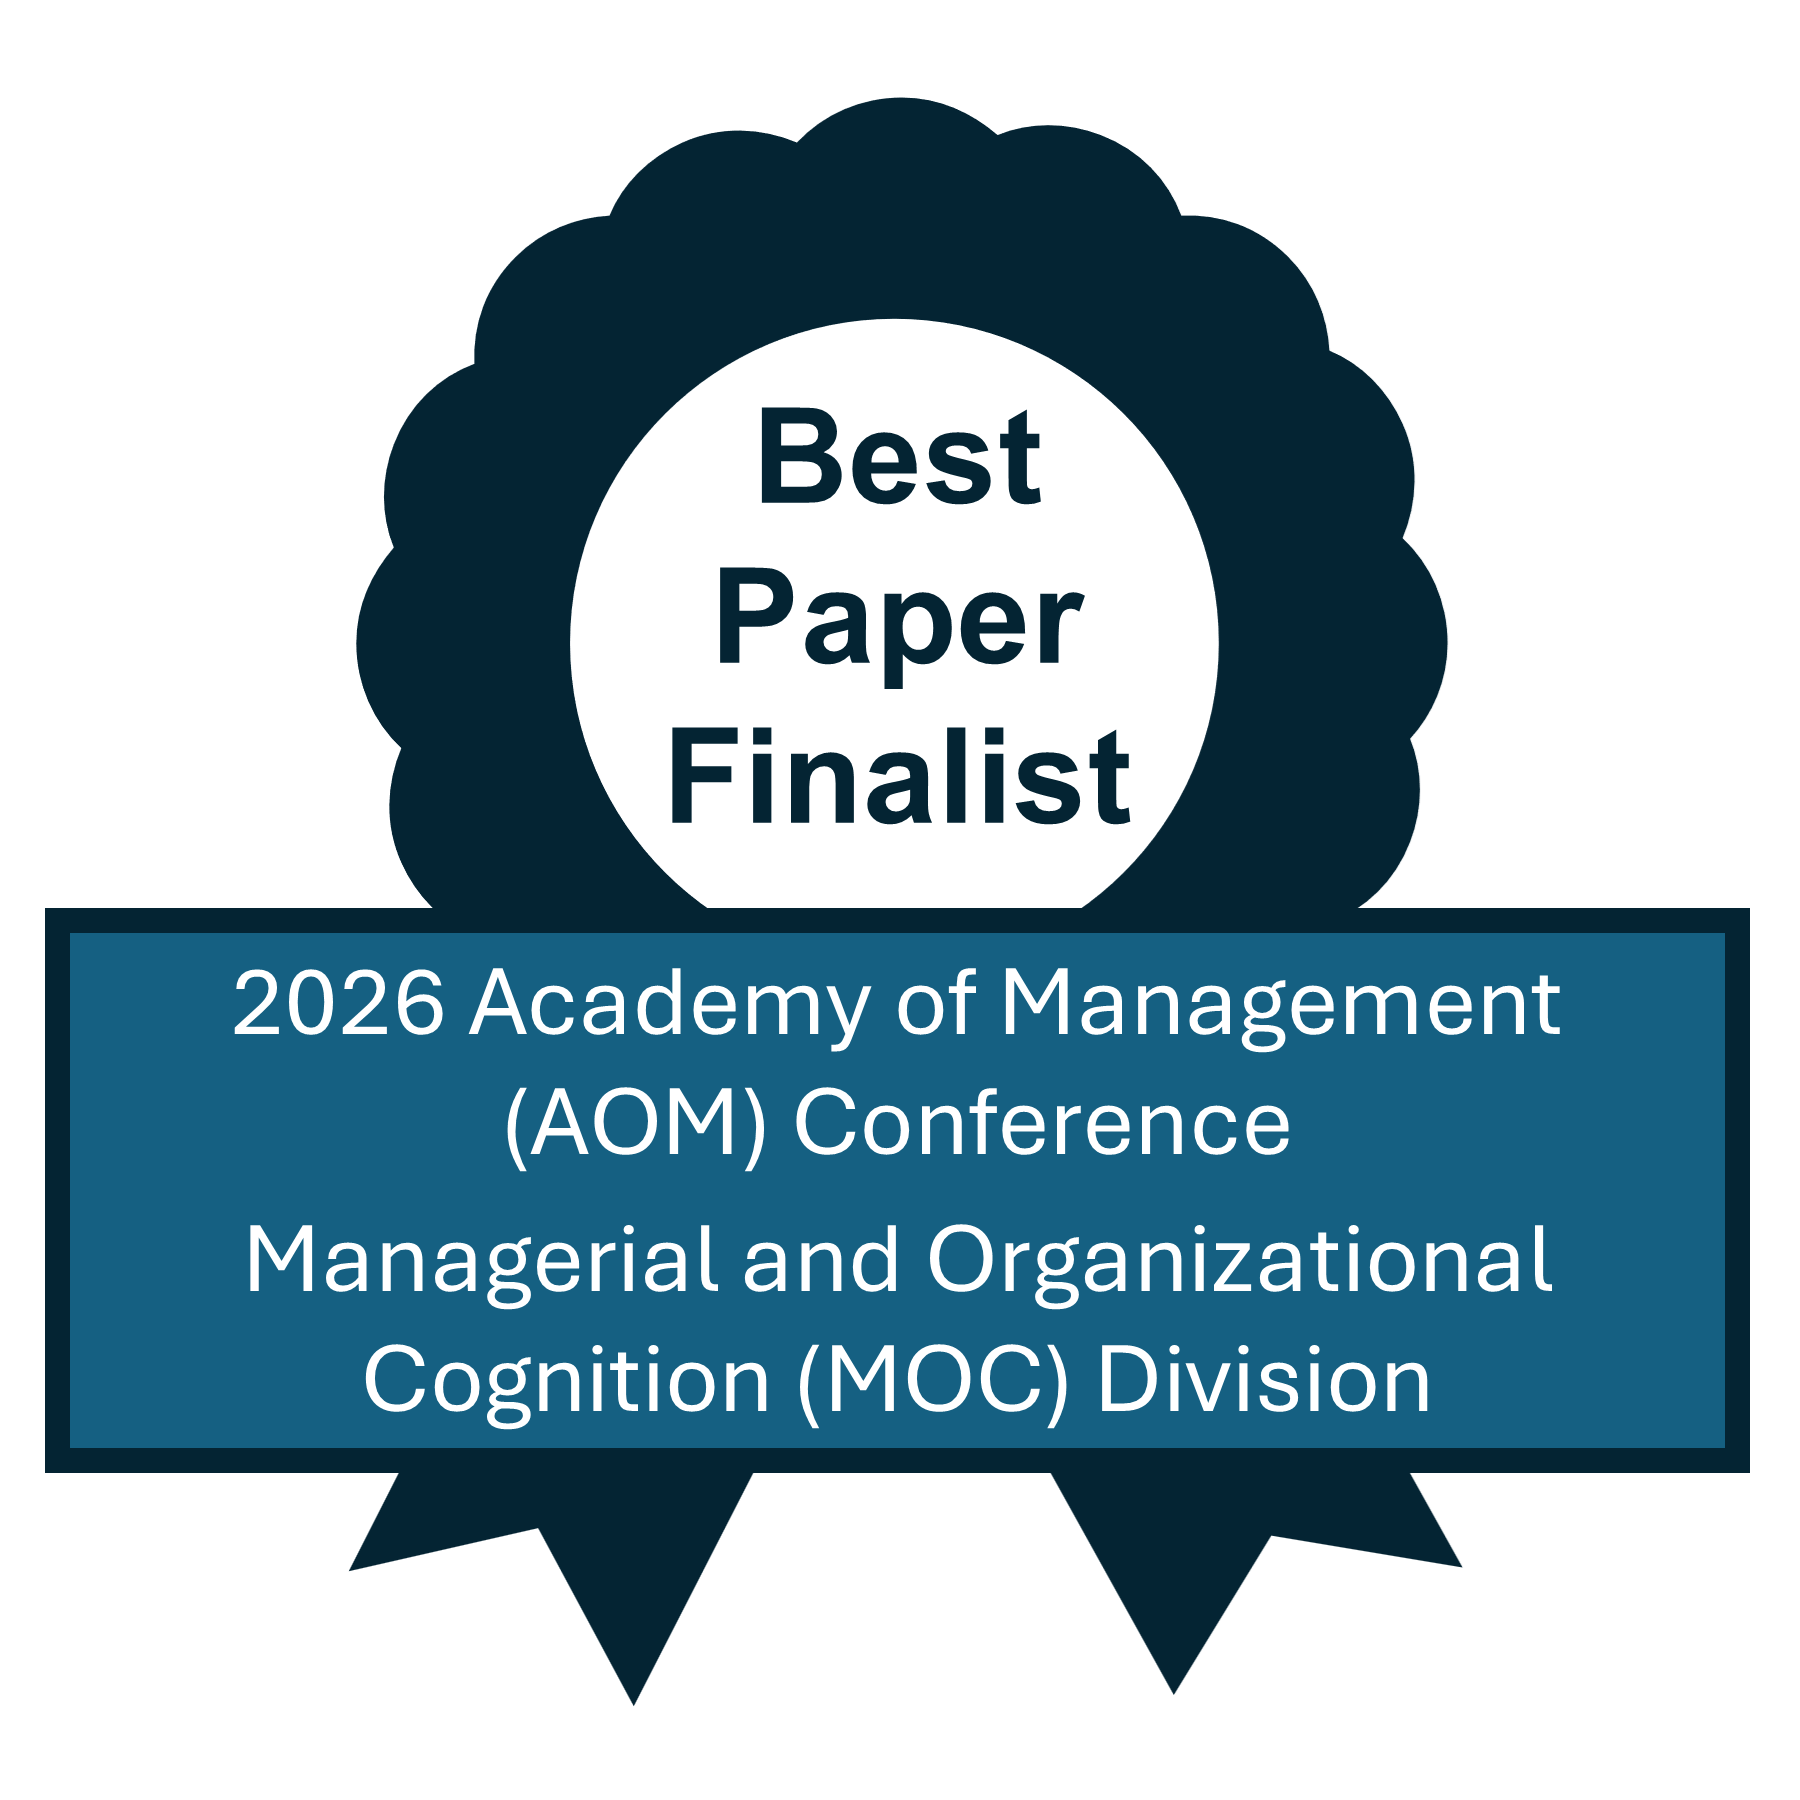
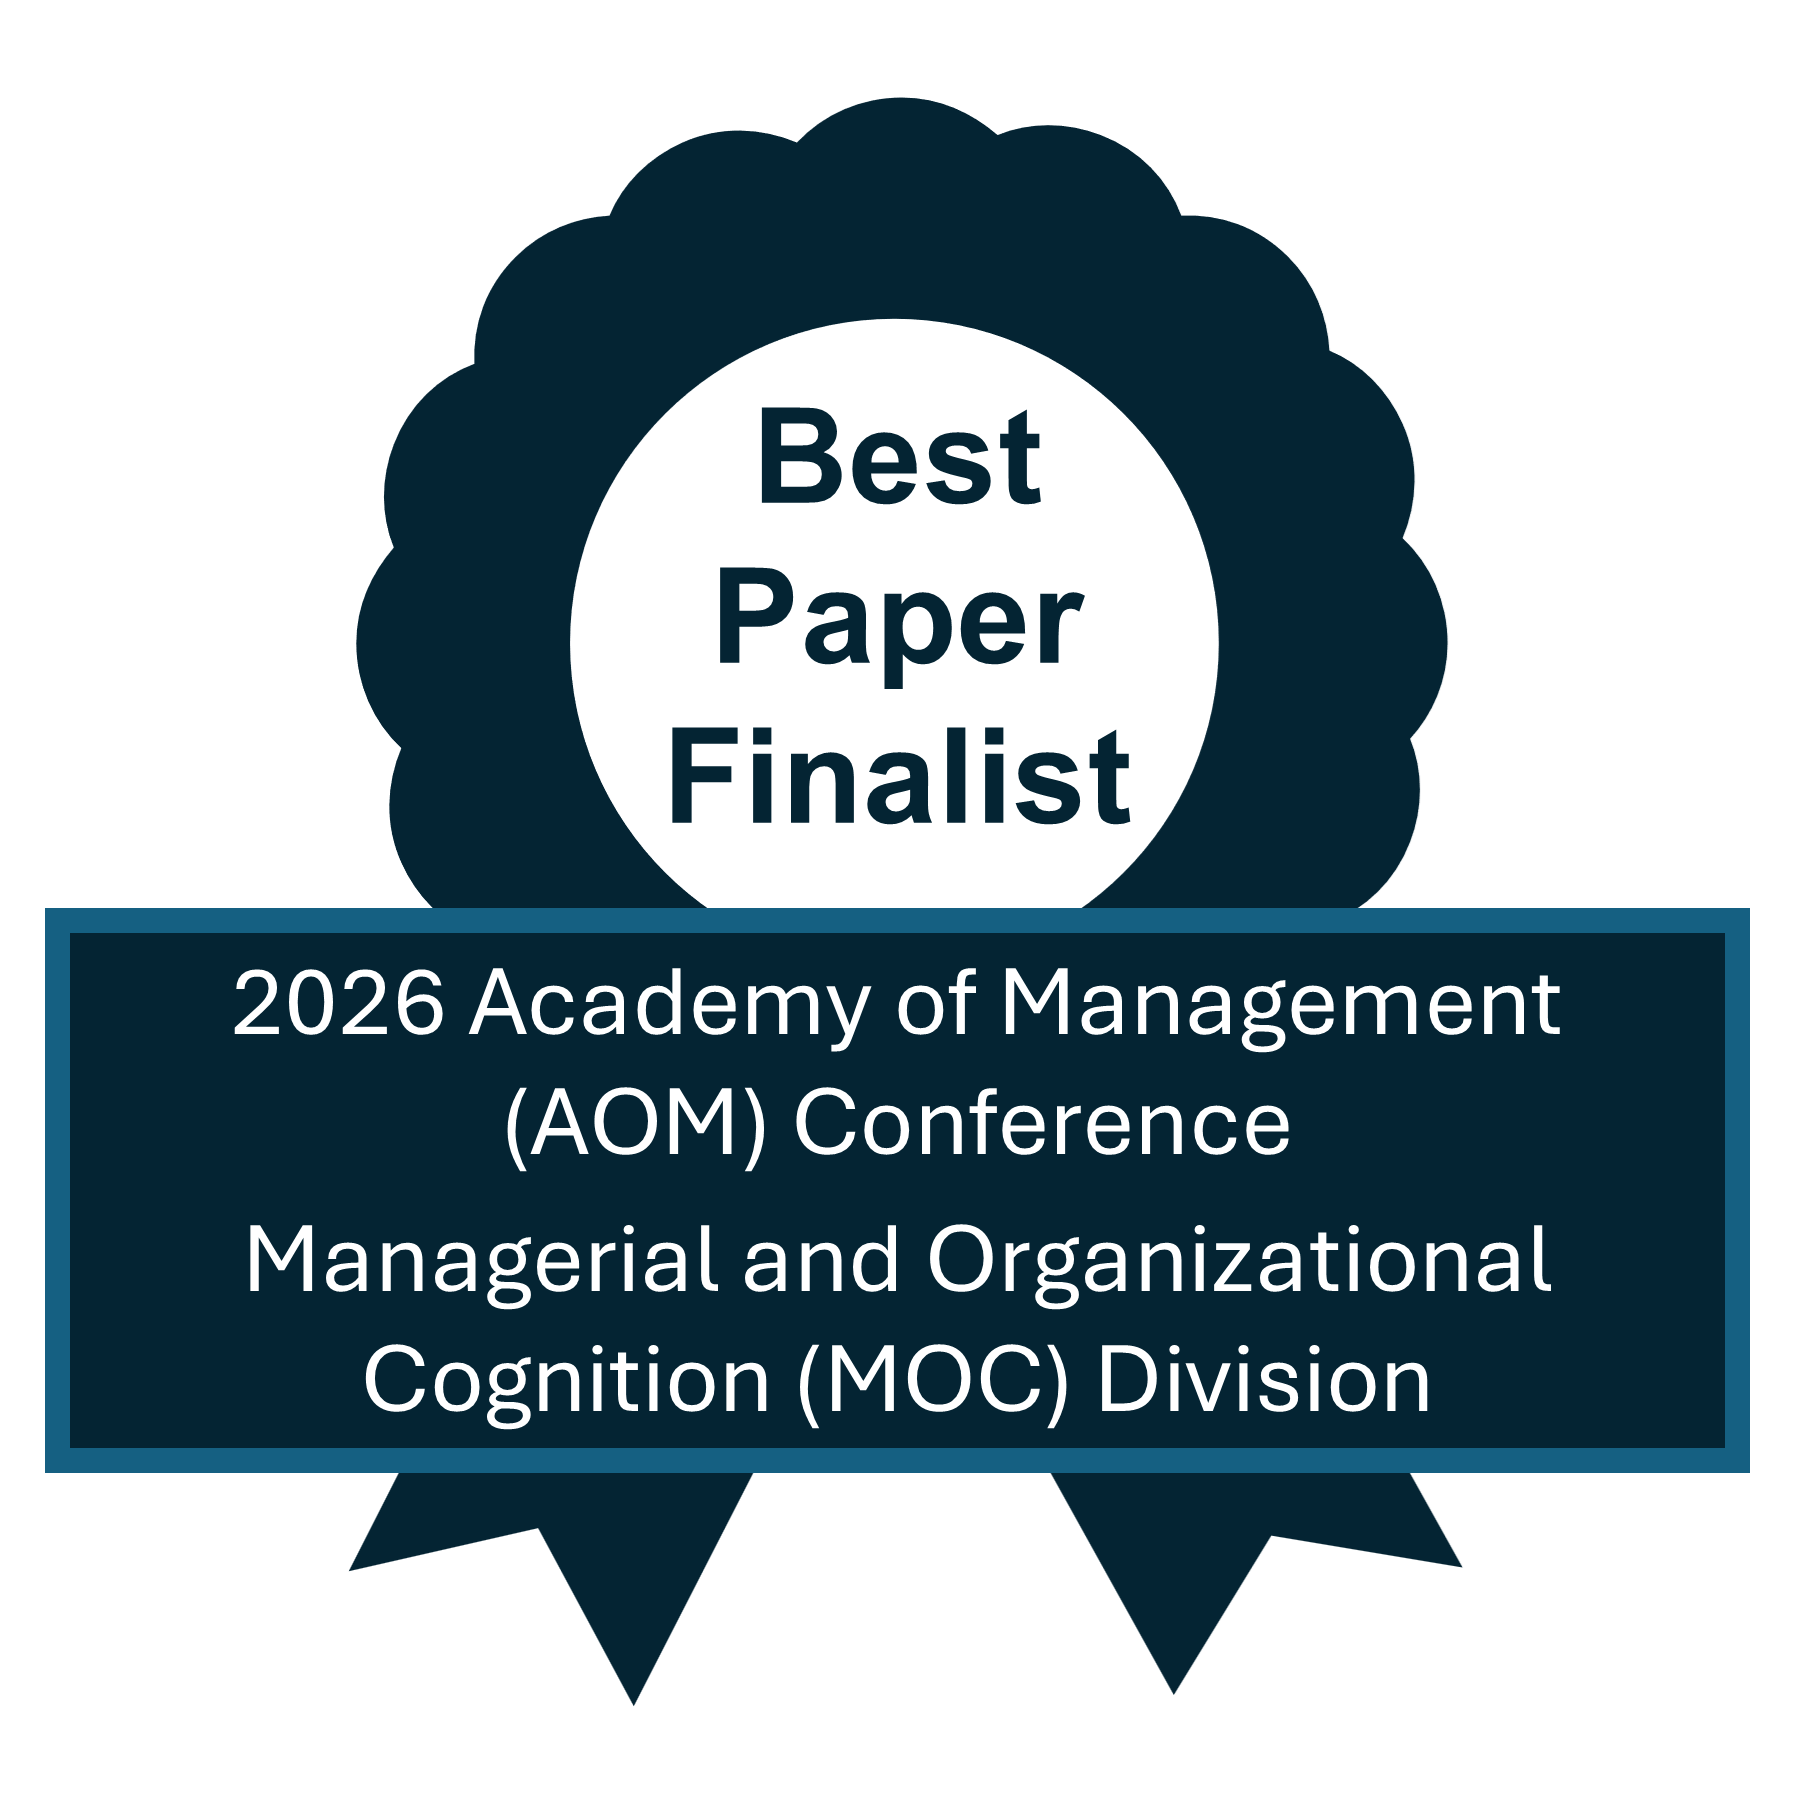
cont'd

Changed region(s): [[0.0, 0.4978, 0.9956, 0.84]]

diff --git a/_pages/publications.md b/_pages/publications.md
@@ -10,6 +10,10 @@ author_profile: true
     padding-left: 0.5in;
     text-indent: -0.5in;
   }
+  .btn-profile {
+    background-color: #042433;
+    color: white;
+  }
 </style>
 
 {% include base_path %}
@@ -18,7 +22,7 @@ author_profile: true
 
 ## Peer-Reviewed Journal Articles
 
-<a href="https://scholar.google.de/citations?user=p5cLq4IAAAAJ" target="_blank"><button style="background-color:#156082; color:white">Google Scholar profile</button></a>
+<a href="https://scholar.google.de/citations?user=p5cLq4IAAAAJ" target="_blank"><button class="btn-profile">Google Scholar profile</button></a>
 
 <div class="apa">
 
@@ -87,7 +91,7 @@ author_profile: true
 
 ## Peer-Reviewed Software & Data
 
-<a href="https://github.com/TobiasRebholz" target="_blank"><button style="background-color:#156082; color:white">GitHub profile</button></a> &emsp; <a href="https://osf.io/user/fd8gn?tab=2" target="_blank"><button style="background-color:#156082; color:white">OSF profile</button></a>
+<a href="https://github.com/TobiasRebholz" target="_blank"><button class="btn-primary">GitHub profile</button></a> &emsp; <a href="https://osf.io/user/fd8gn?tab=2" target="_blank"><button class="btn-primary">OSF profile</button></a>
 
 <div class="apa">
 
@@ -114,7 +118,7 @@ author_profile: true
 
 ## Preprints
 
-<a href="https://osf.io/user/fd8gn?tab=5" target="_blank"><button style="background-color:#156082; color:white">PsyArXiv profile</button></a> &emsp; <a href="https://arxiv.org/search/cs?searchtype=author&query=Rebholz%2C+T+R" target="_blank"><button style="background-color:#156082; color:white">arXiv profile</button></a>
+<a href="https://osf.io/user/fd8gn?tab=5" target="_blank"><button class="btn-primary">PsyArXiv profile</button></a> &emsp; <a href="https://arxiv.org/search/cs?searchtype=author&query=Rebholz%2C+T+R" target="_blank"><button class="btn-primary">arXiv profile</button></a>
 
 <div class="apa">
 
@@ -153,4 +157,4 @@ author_profile: true
 
 ## Manuscripts
 
-<a href="/cv/"><button style="background-color:#156082; color:white">Vita</button></a>
+<a href="/cv/"><button class="btn-primary">Vita</button></a>

diff --git a/_pages/conferences.md b/_pages/conferences.md
@@ -10,6 +10,10 @@ author_profile: true
     padding-left: 0.5in;
     text-indent: -0.5in;
   }
+  .btn-profile {
+    background-color: #042433;
+    color: white;
+  }
 </style>
 
 {% include base_path %}